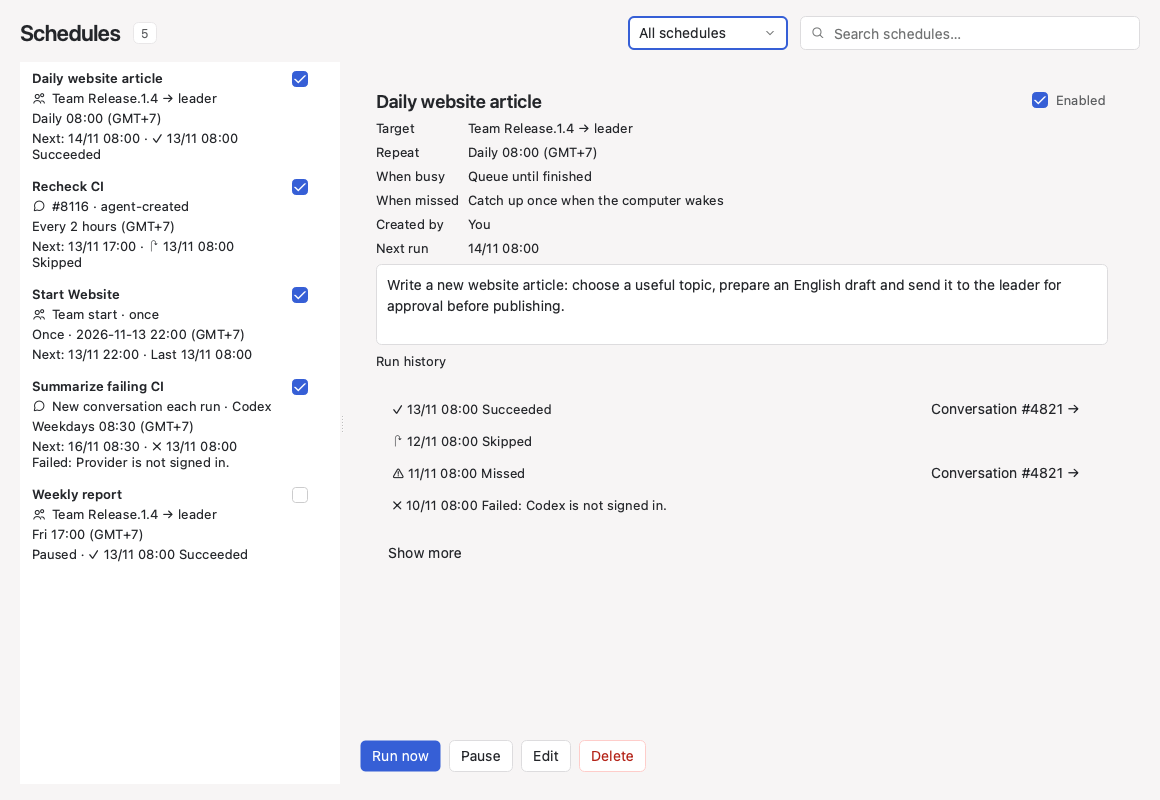
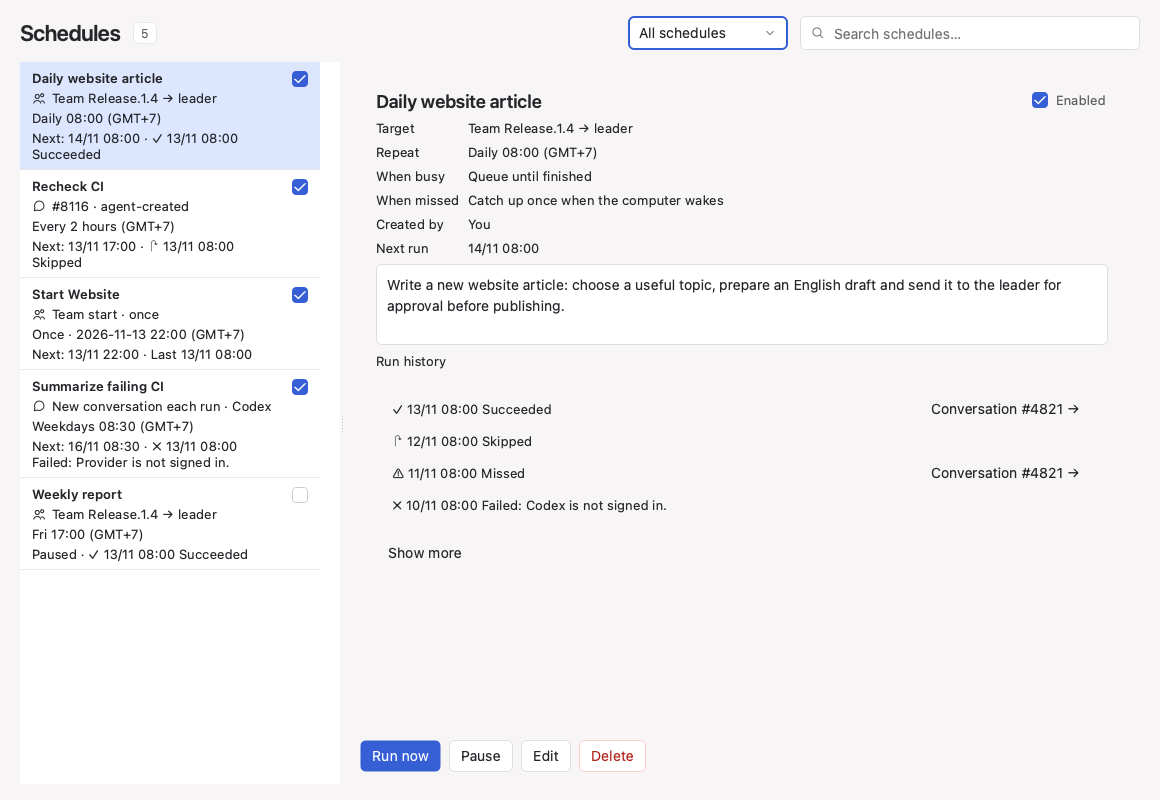
Show a blue selected schedule row and stop the editor clipping field borders.
The selected row uses the nav-selected token and a divider, and the editor form keeps its height inside the card so the prompt error and the fields below keep a closed border.

Changed region(s): [[0.0, 0.0625, 0.2793, 0.2188]]

diff --git a/apps/desktop/src/schedules/ScheduleEditor.cpp b/apps/desktop/src/schedules/ScheduleEditor.cpp
@@ -15,8 +15,10 @@
 #include "KetTokens.h"
 #include "Schedule.h"
 
+#include <QFrame>
 #include <QLabel>
 #include <QPalette>
+#include <QScrollArea>
 #include <QTextEdit>
 #include <QTimeZone>
 #include <QVBoxLayout>
@@ -88,10 +90,12 @@ ScheduleEditor::ScheduleEditor(ScheduleClient* client, const QJsonObject& schedu
     if (teamStart_)
         promptRow_->setHelp(tr("A team start has no prompt."));
     column->addWidget(promptRow_);
+    // A word-wrapped note with no width reports a huge height and the card then
+    // squeezes every field until its bottom border disappears. Keep one reserved line.
     promptNote_ = new QLabel(body);
     promptNote_->setObjectName(QStringLiteral("schedulePromptError"));
-    promptNote_->setWordWrap(true);
-    promptNote_->hide();
+    promptNote_->setFixedHeight(qRound(ket::Appearance::instance().scaled(20)));
+    promptNote_->setSizePolicy(QSizePolicy::Preferred, QSizePolicy::Fixed);
     column->addWidget(promptNote_);
 
     repeat_ = new ket::SegmentedControl(
@@ -177,7 +181,18 @@ ScheduleEditor::ScheduleEditor(ScheduleClient* client, const QJsonObject& schedu
     summary_->setWordWrap(true);
     column->addWidget(summary_);
 
-    dialog_->setBody(body);
+    // The card cannot grow past the window. A squeezed column clips the bottom
+    // border of every field, so the form keeps its height and scrolls instead.
+    body->adjustSize();
+    const int natural = body->sizeHint().height();
+    body->setMinimumHeight(natural);
+    auto* scroll = new QScrollArea;
+    scroll->setFrameShape(QFrame::NoFrame);
+    scroll->setWidgetResizable(true);
+    scroll->setHorizontalScrollBarPolicy(Qt::ScrollBarAlwaysOff);
+    scroll->setMinimumHeight(natural);
+    scroll->setWidget(body);
+    dialog_->setBody(scroll);
     auto* cancel = dialog_->addButton(tr("Cancel"));
     connect(cancel, &QAbstractButton::clicked, dialog_, &ket::Dialog::reject);
     auto* save = dialog_->addButton(tr("Save"), ket::ButtonVariant::Primary);
@@ -307,13 +322,19 @@ void ScheduleEditor::showIssue(const QString& code, const QString& message, cons
     const bool promptError = resolved == QLatin1String("prompt") && !message.isEmpty();
     prompt_->setInvalid(promptError);
     promptNote_->setText(promptError ? message : QString{});
-    promptNote_->setVisible(promptError);
     if (promptError) {
         QPalette palette = promptNote_->palette();
         const QColor danger = ket::Tokens::color(u"danger", ket::Appearance::instance().theme());
         for (const auto group : {QPalette::Active, QPalette::Inactive, QPalette::Disabled})
             palette.setColor(group, QPalette::WindowText, danger);
         promptNote_->setPalette(palette);
+    }
+    if (QWidget* form = promptNote_->parentWidget()) {
+        form->setMinimumHeight(0);
+        const int natural = form->sizeHint().height();
+        form->setMinimumHeight(natural);
+        if (auto* scroll = qobject_cast<QScrollArea*>(form->parentWidget()->parentWidget()))
+            scroll->setMinimumHeight(natural);
     }
     const bool banner = !message.isEmpty() && resolved.isEmpty();
     banner_->setText(banner ? message : QString{});

diff --git a/apps/desktop/src/schedules/ScheduleWindowView.cpp b/apps/desktop/src/schedules/ScheduleWindowView.cpp
@@ -12,12 +12,14 @@
 #include "KetTextArea.h"
 #include "KetTextField.h"
 #include "KetToggle.h"
+#include "KetTokens.h"
 
 #include <algorithm>
 
 #include <QLabel>
 #include <QLayout>
 #include <QListWidget>
+#include <QPainter>
 #include <QSignalBlocker>
 #include <QStackedWidget>
 #include <QVBoxLayout>
@@ -33,15 +35,7 @@ class ScheduleRow final : public QWidget {
 
     ScheduleRow(const QJsonObject& schedule, const QJsonObject& latest, const bool selected,
                 QWidget* parent)
-        : QWidget(parent) {
-        if (selected) {
-            setAutoFillBackground(true);
-            QPalette wash = palette();
-            QColor accent = wash.color(QPalette::Highlight);
-            accent.setAlpha(40);
-            wash.setColor(QPalette::Window, accent);
-            setPalette(wash);
-        }
+        : QWidget(parent), selected_(selected) {
         auto* row = new QHBoxLayout(this);
         row->setContentsMargins(scaled(12), scaled(8), scaled(12), scaled(8));
         row->setSpacing(scaled(8));
@@ -93,6 +87,19 @@ class ScheduleRow final : public QWidget {
         row->addLayout(text, 1);
         row->addWidget(enabled, 0, Qt::AlignTop);
     }
+
+  protected:
+    void paintEvent(QPaintEvent*) override {
+        QPainter painter(this);
+        const auto theme = ket::Appearance::instance().theme();
+        if (selected_)
+            painter.fillRect(rect(), ket::Tokens::color(u"nav-selected", theme));
+        painter.setPen(ket::Tokens::color(u"panel-border", theme));
+        painter.drawLine(0, height() - 1, width() - 1, height() - 1);
+    }
+
+  private:
+    bool selected_{false};
 };
 
 void clearLayout(QLayout* layout) {
